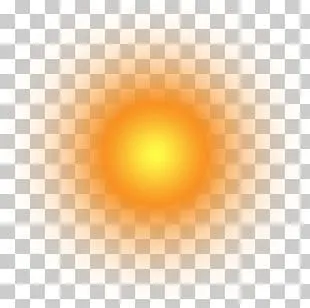
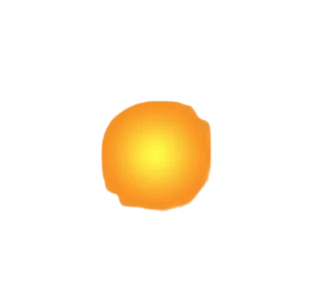
Add planet images rendering to main.py and update sun asset

diff --git a/main.py b/main.py
@@ -19,6 +19,16 @@ def main():
     while running:
         for event in pygame.event.get():
             screen.blit(BACKGROUND_IMG, (0, 0))
+            screen.blit(EARTH_IMG, (50, 150))
+            screen.blit(JUPITER_IMG, (200, 150))
+            screen.blit(MARS_IMG, (350, 150))
+            screen.blit(MERCURY_IMG, (500, 150))
+            screen.blit(NEPTUNE_IMG, (650, 150))
+            screen.blit(SATURN_IMG, (800, 150))
+            screen.blit(URANUS_IMG, (950, 150))
+            screen.blit(VENUS_IMG, (50, 350))
+            screen.blit(SUN_IMG, (200, 350))
+            screen.blit 
             if event.type == pygame.QUIT:
                 running = False;
         pygame.display.update();